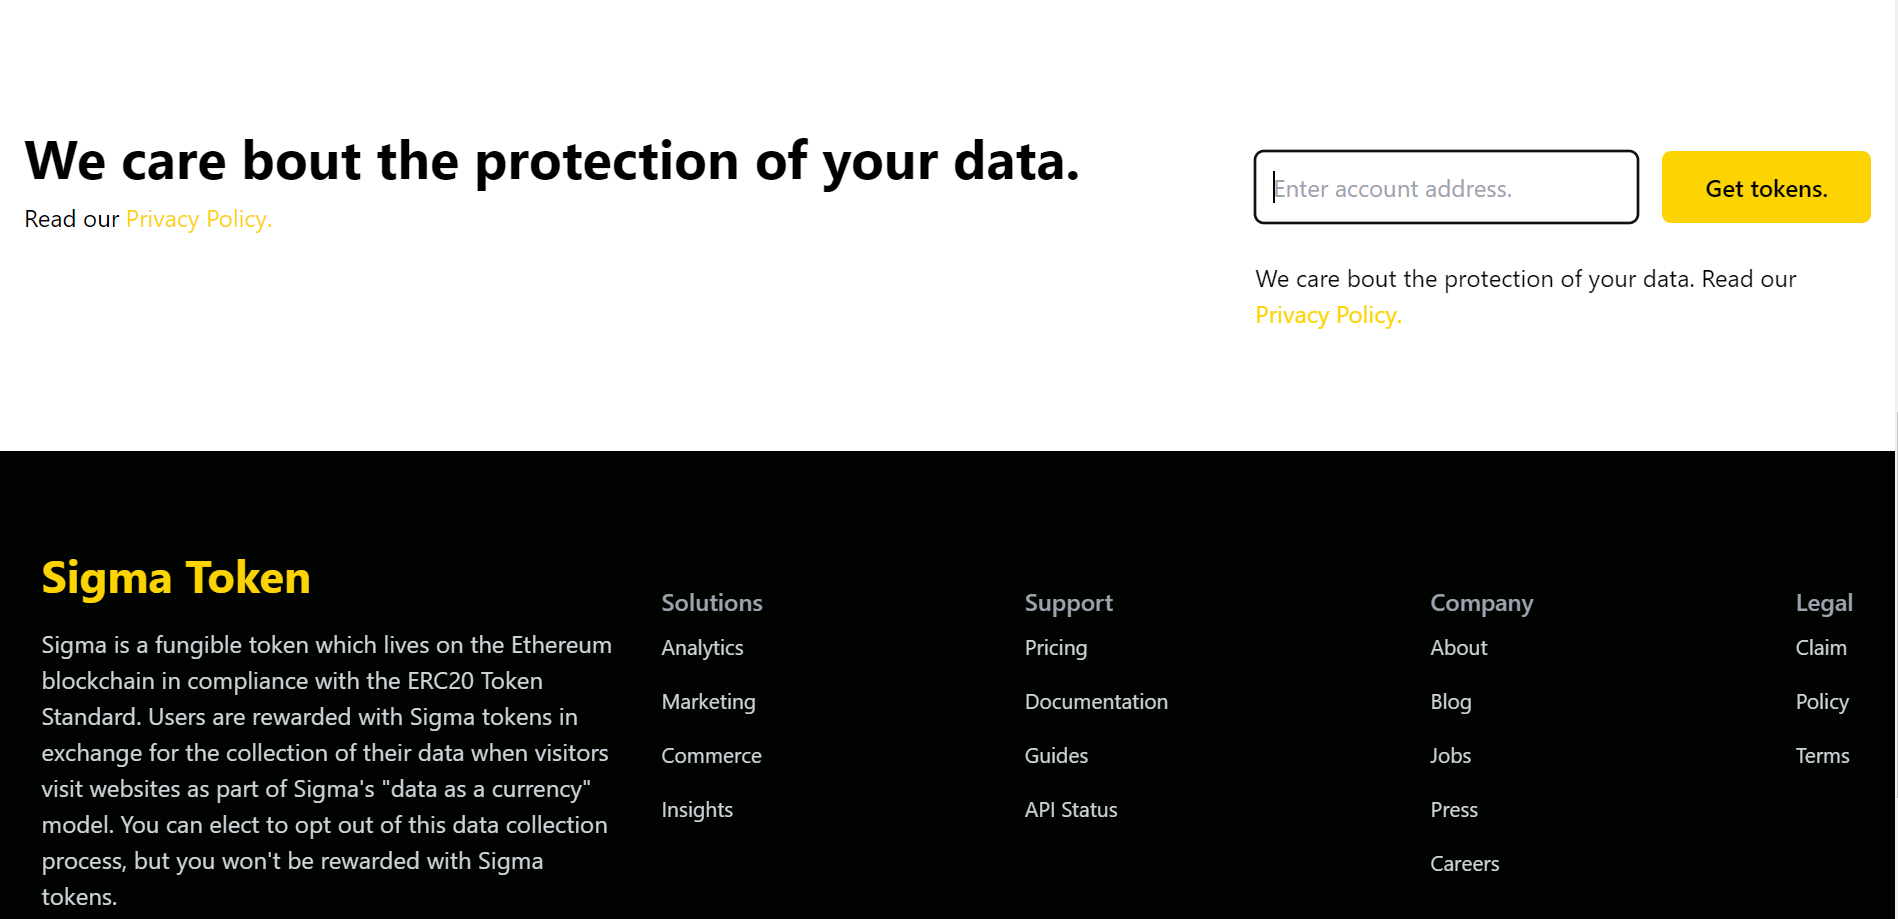
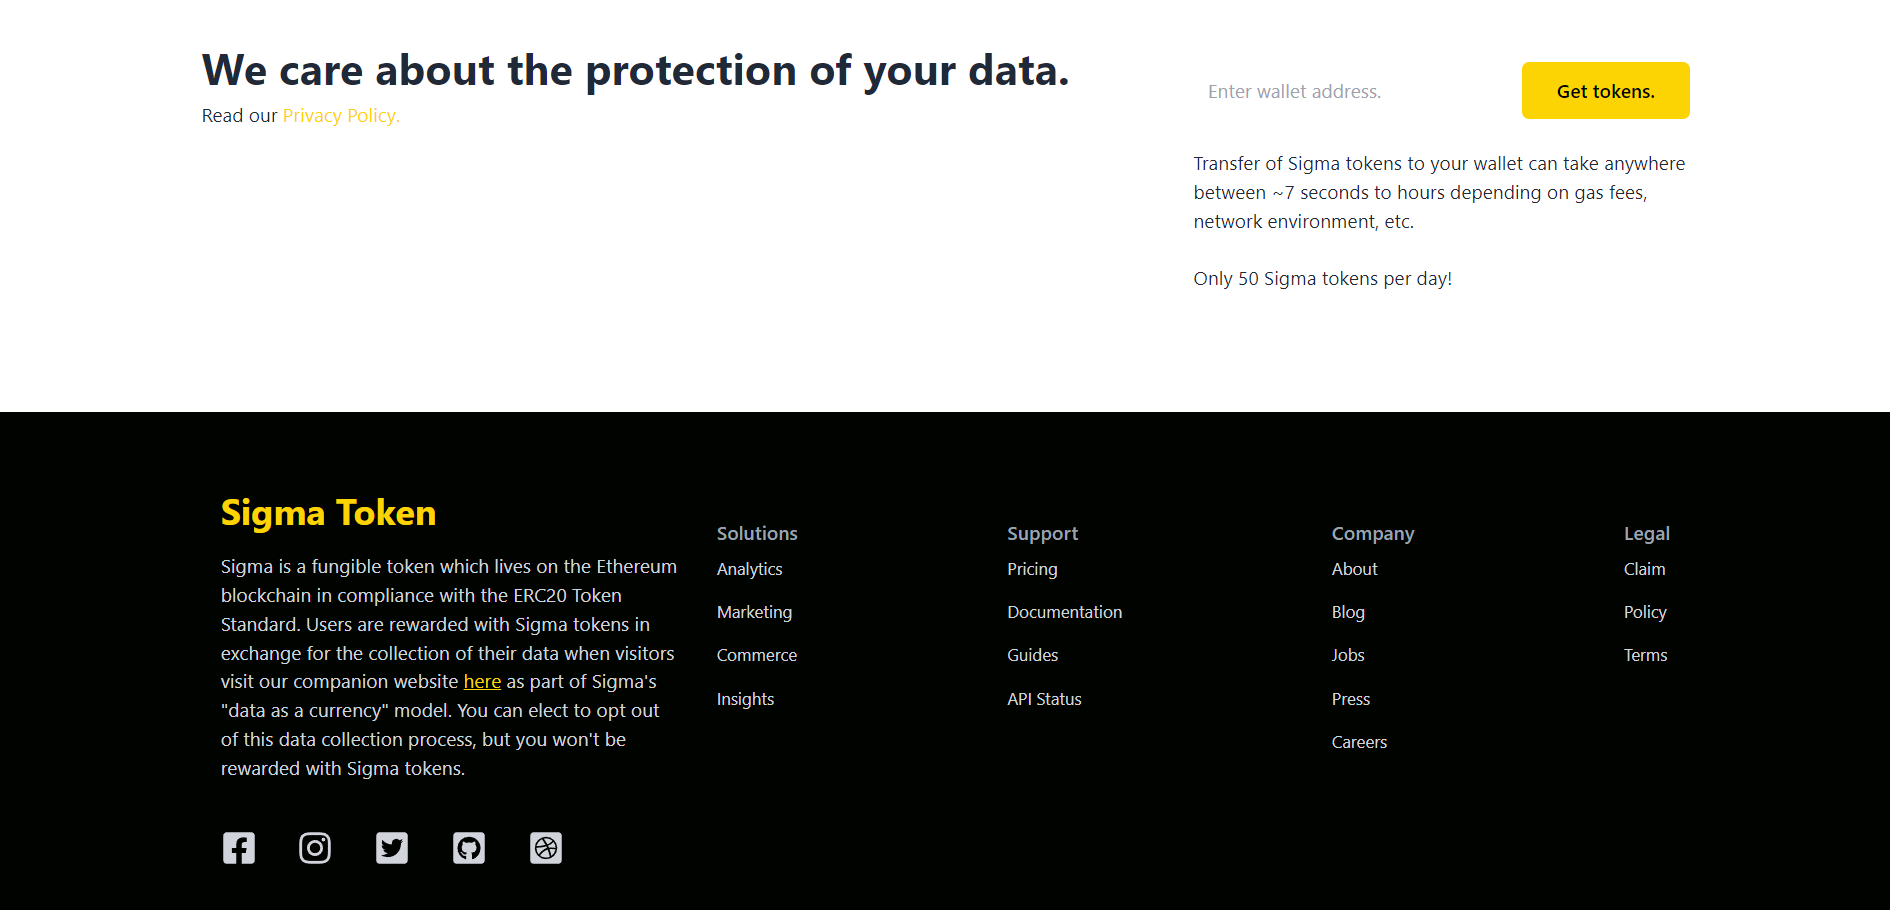
Update screenshot

diff --git a/crypto-faucet-ui/src/components/Footer.jsx b/crypto-faucet-ui/src/components/Footer.jsx
@@ -12,7 +12,7 @@ const Footer = () => {
     <div className='max-w-[1240px] mx-auto py-16 px-4 grid lg:grid-cols-3 gap-8 text-gray-300'>
       <div>
         <h1 className='w-full text-3xl font-bold text-[#fcd303]'>Sigma Token</h1>
-        <p className='py-4'>Sigma is a fungible token which lives on the Ethereum blockchain in compliance with the ERC20 Token Standard. Users are rewarded with Sigma tokens in exchange for the collection of their data when visitors visit websites as part of Sigma's "data as a currency" model. You can elect to opt out of this data collection process, but you won't be rewarded with Sigma tokens.</p>
+        <p className='py-4'>Sigma is a fungible token which lives on the Ethereum blockchain in compliance with the ERC20 Token Standard. Users are rewarded with Sigma tokens in exchange for the collection of their data when visitors visit our companion website <a href="" style={{ color: '#fcd303', textDecoration: 'underline' }}>here</a> as part of Sigma's "data as a currency" model. You can elect to opt out of this data collection process, but you won't be rewarded with Sigma tokens.</p>
         <div className='flex justify-between md:w-[75%] my-6'>
             <FaFacebookSquare size={30} />
             <FaInstagram size={30} />

diff --git a/crypto-faucet-ui/src/App.js b/crypto-faucet-ui/src/App.js
@@ -5,7 +5,7 @@ import Navbar from './components/Navbar';
 import Faucet from './components/Faucet';
 import { useEffect, useState } from "react";
 import { ethers } from 'ethers';
-import faucetSmartContract from './ethereum/faucet';
+import faucetSmartContract from './ethereum/faucet'; 
 
 function App() {
   const [walletAddress, setWalletAddress] = useState("");

diff --git a/crypto-faucet-ui/src/components/Faucet.jsx b/crypto-faucet-ui/src/components/Faucet.jsx
@@ -32,7 +32,7 @@ const Faucet = ({error, success, handler, tx, wallet}) => {
           <br>
           </br>
           <p>
-            Only 100 Sigma tokens per day!
+            Only 50 Sigma tokens per day!
           </p>
         </div>
       </div>
